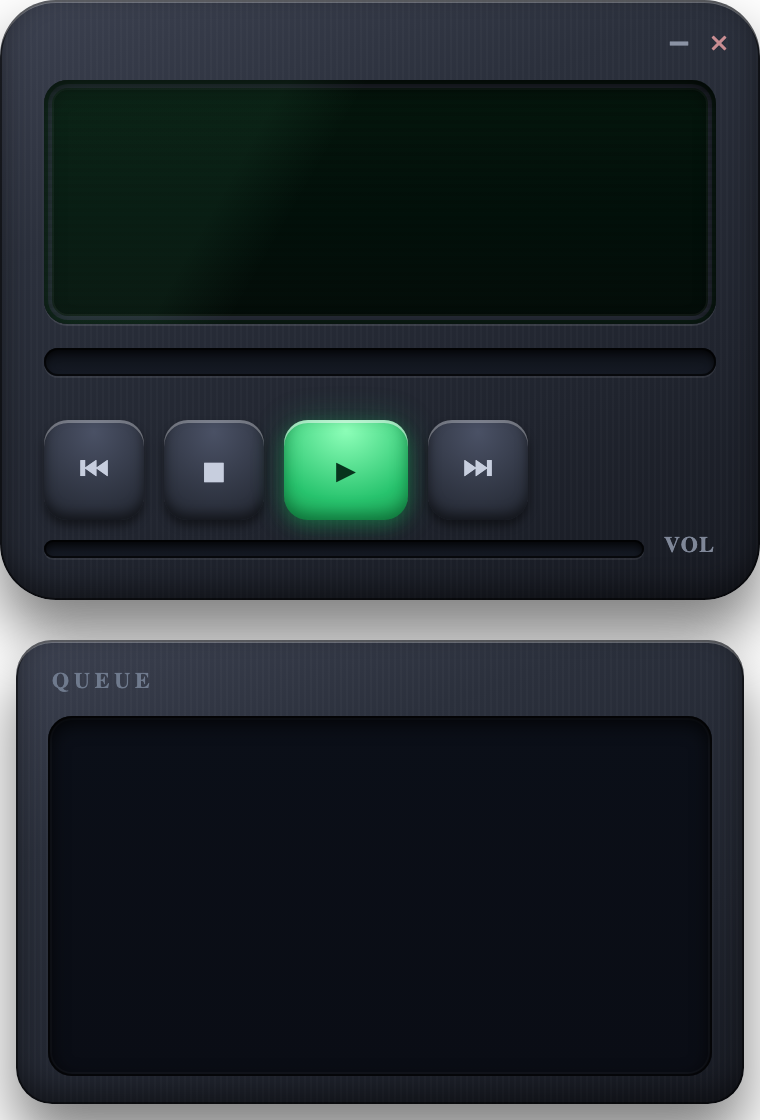
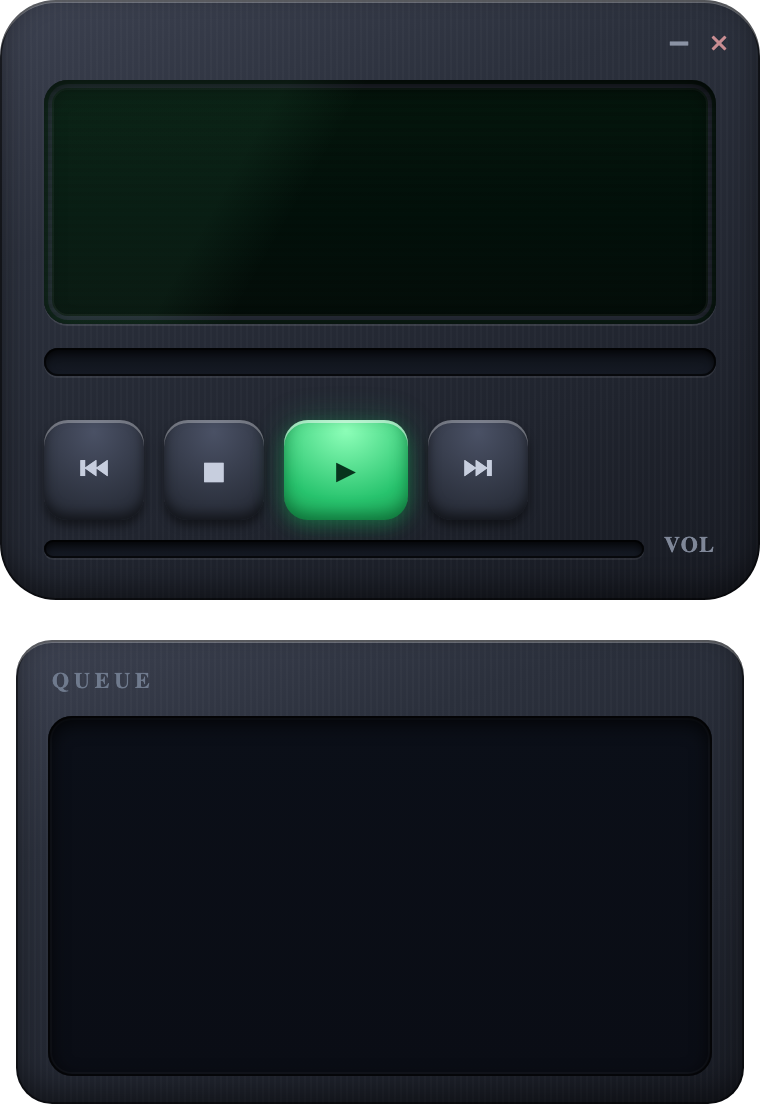
fix(showcase): drop baked outer shadow on Faceplate/Studio (crisp edges, full transparency; macOS window shadow takes over)

Changed region(s): [[0.0, 0.4688, 1.0, 1.0], [0.9987, 0.0312, 1.0, 0.0625]]

diff --git a/showcase/skins/faceplate/faceplate.src.html b/showcase/skins/faceplate/faceplate.src.html
@@ -1,4 +1,4 @@
-<!-- Source for skins/faceplate/assets/faceplate.png. Regenerate: headless Chrome --window-size=380,560 --force-device-scale-factor=2 --default-background-color=00000000 --screenshot. Live LCD text/viz/scrub/list/hotspots are drawn by skin.lua over this baked chrome. -->
+<!-- Source for skins/faceplate/assets/faceplate.png. Regenerate: headless Chrome --window-size=380,560 --force-device-scale-factor=2 --default-background-color=00000000 --screenshot. No baked drop shadow — macOS window shadow follows the alpha. Live LCD/viz/scrub/list/hotspots drawn by skin.lua. -->
 <style>
   html,body{margin:0;padding:0;background:transparent;
     font-family:ui-sans-serif,system-ui,-apple-system,sans-serif}
@@ -12,8 +12,7 @@
     box-shadow:
       inset 0 1.5px 0 rgba(255,255,255,.28),
       inset 0 0 0 1px rgba(0,0,0,.5),
-      inset 0 -6px 14px rgba(0,0,0,.45),
-      0 18px 30px rgba(0,0,0,.5);}
+      inset 0 -6px 14px rgba(0,0,0,.45);}
 
   /* ---------- Component 1: body ---------- */
   .body{top:0;left:0;width:380px;height:300px}

diff --git a/showcase/skins/studio/studio.src.html b/showcase/skins/studio/studio.src.html
@@ -1,4 +1,4 @@
-<!-- Source for skins/studio/assets/studio.png. Regenerate: headless Chrome --window-size=720,480 --force-device-scale-factor=2 --default-background-color=00000000 --screenshot. Live LCD text/viz/list/scrubs/hotspots drawn by skin.lua over this baked chrome. -->
+<!-- Source for skins/studio/assets/studio.png. Regenerate: headless Chrome --window-size=720,480 --force-device-scale-factor=2 --default-background-color=00000000 --screenshot. No baked drop shadow — macOS window shadow follows the alpha. Live overlays drawn by skin.lua. -->
 <style>
   html,body{margin:0;padding:0;background:transparent;font-family:ui-sans-serif,system-ui,-apple-system,sans-serif}
   .win{position:relative;width:720px;height:480px}
@@ -7,7 +7,7 @@
       repeating-linear-gradient(90deg,rgba(255,255,255,.016) 0 1px,transparent 1px 3px),
       linear-gradient(160deg,#3d4351 0%,#2c313d 32%,#20242e 72%,#161922 100%);
     box-shadow:inset 0 1.5px 0 rgba(255,255,255,.26),inset 0 0 0 1px rgba(0,0,0,.5),
-      inset 0 -8px 18px rgba(0,0,0,.45),0 20px 34px rgba(0,0,0,.5)}
+      inset 0 -8px 18px rgba(0,0,0,.45)}
   .win-b{position:absolute;top:14px;font:600 15px ui-monospace,Menlo,monospace;color:#8b93a4}
   .win-b.m{right:42px}.win-b.x{right:20px;color:#c98d92}
 